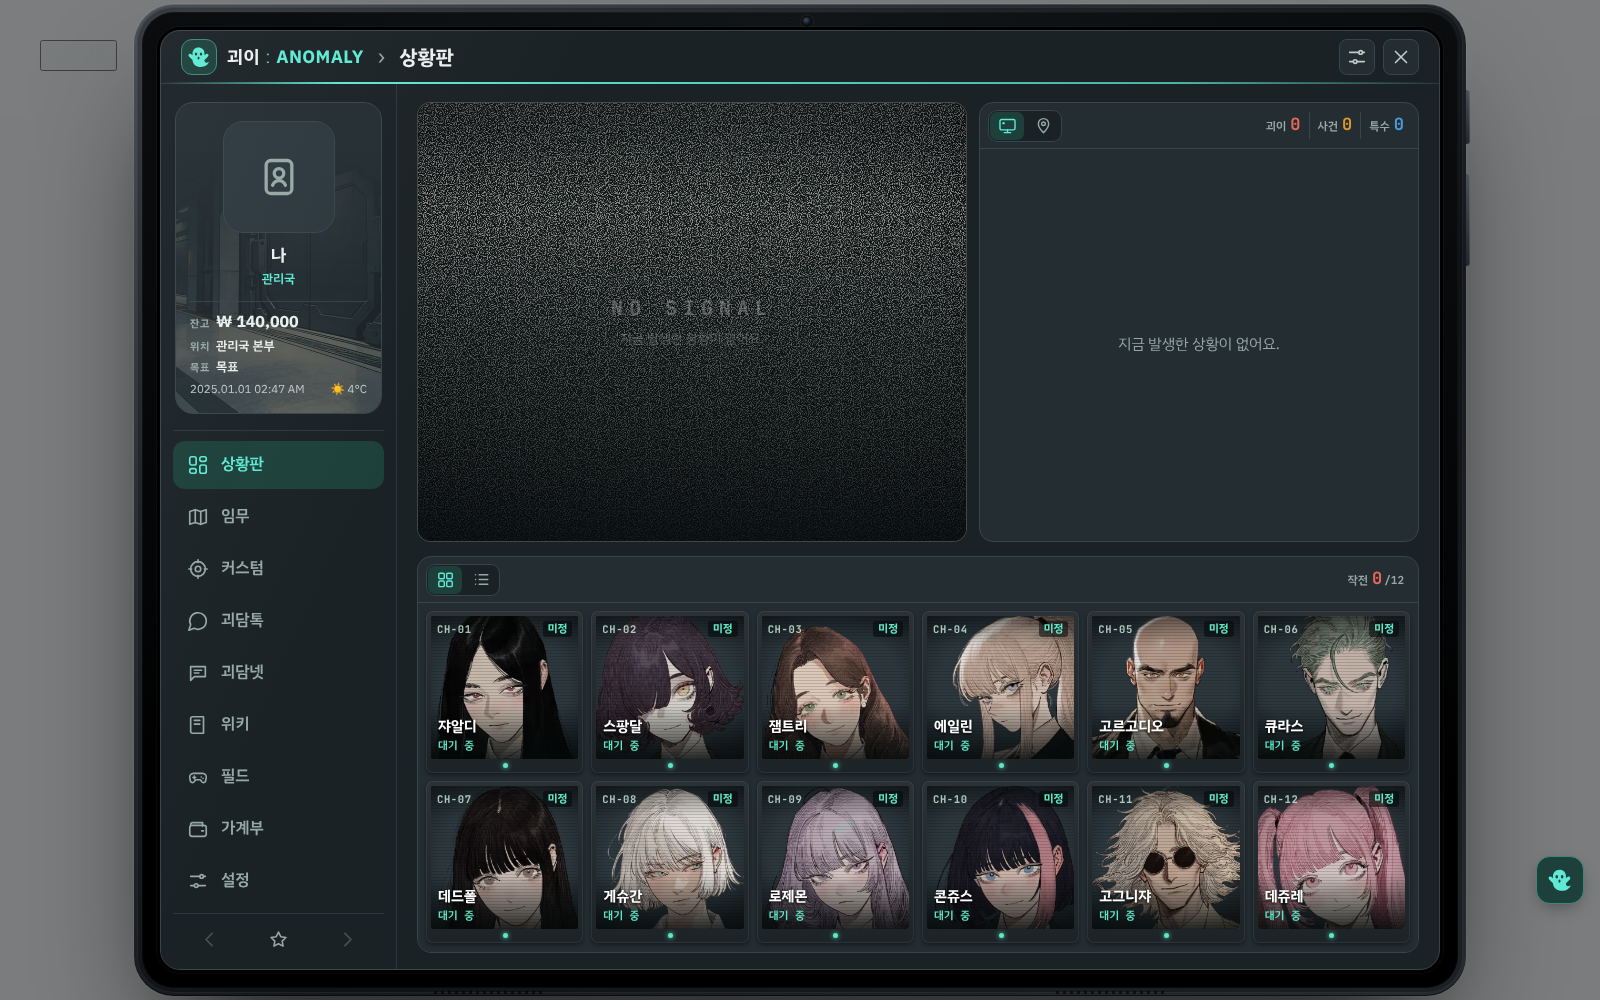
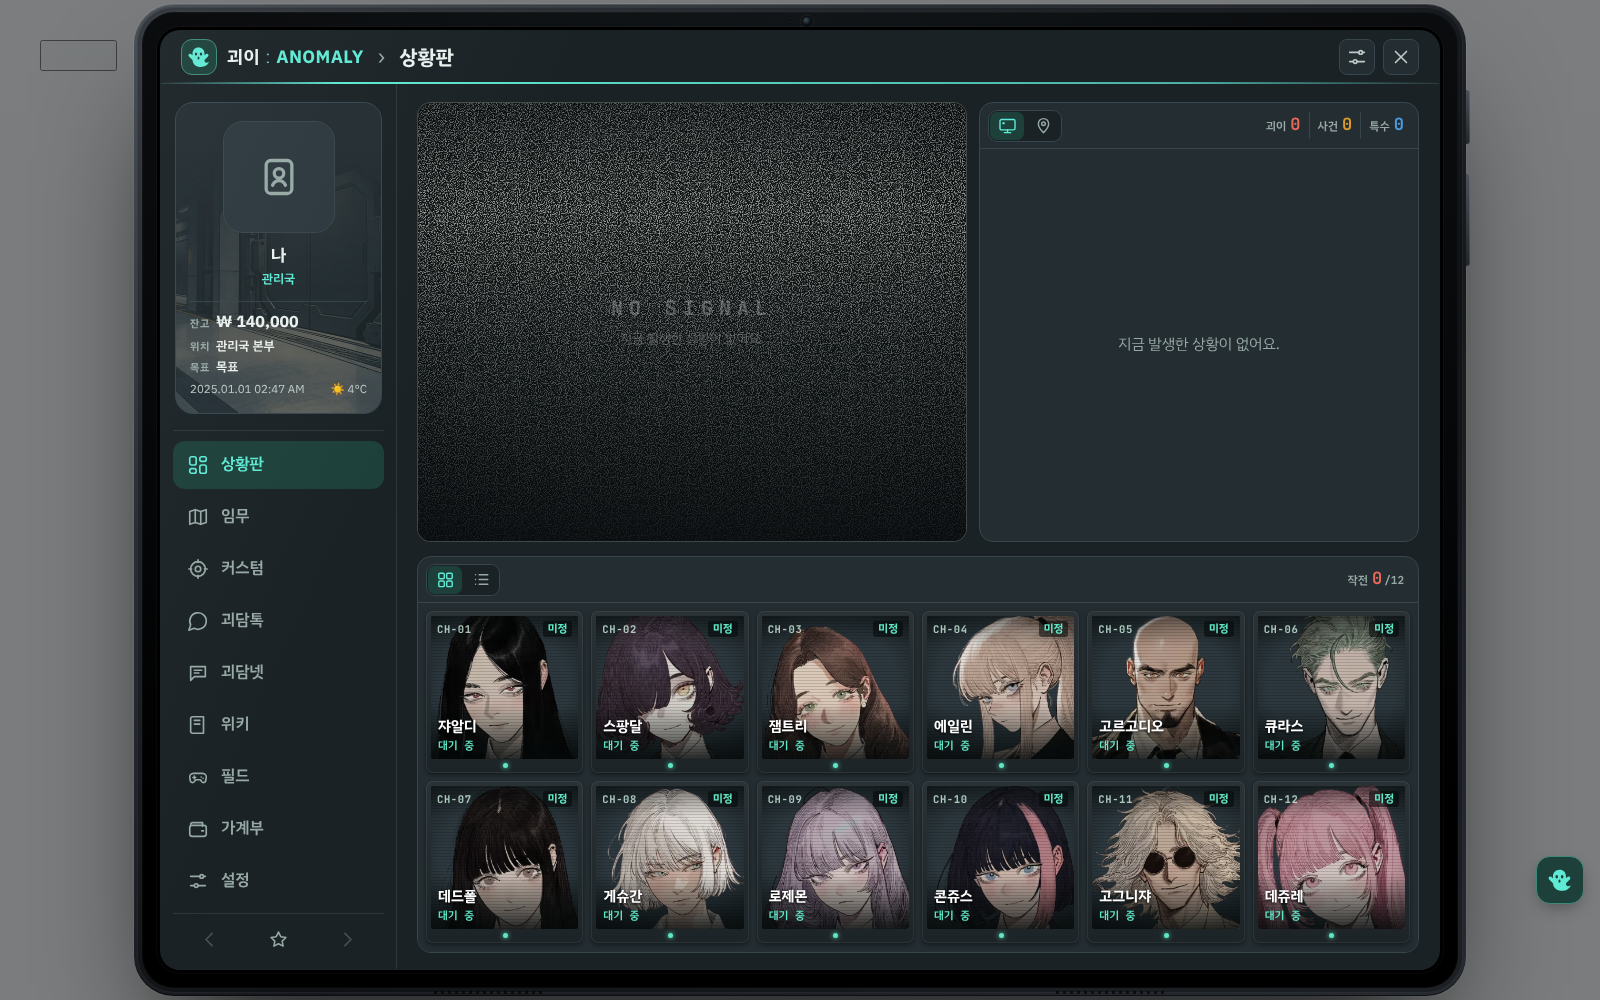
외부 프레임 검토 반영: 틀 안 창 테두리 투명 + 전술 바깥 여백 6px (범퍼 안 잘리게)
- style.css: .gx-frame > .gx-panel 에 border-color: transparent (시안은 검은 3px 띠뿐 — 띠와 창 사이 회색 선 제거)
- style.css·frame.ts: 전술은 .gx 여백 6px (범퍼 바닥 -6px 이 1000px 높이에서 2px 잘리던 것), 숨김 계산 PAD 도 종류별
- 시험 qc-frame: 전술 여백 6px·테두리 투명·범퍼가 화면 안 확인
- 구현 사진 3장 다시 찍음, 인계서 한 줄 갱신

Claude-Session: https://claude.ai/code/session_01Jodrze8Jhrnp8pauH4bqbV

Changed region(s): [[0.25, 0.093, 0.625, 0.496]]

diff --git a/src/ui/style.css b/src/ui/style.css
@@ -86,10 +86,13 @@ button:focus-visible, a:focus-visible, input:focus-visible, textarea:focus-visib
 /* ── 외부 프레임 (설정 → 화면 「외부 프레임」, PC만, ui/frame.ts): 창 둘레의 기기 틀. 창 크기 규칙은 위 그대로, 틀만 창 테두리 바깥으로 ──
    시안 docs/시안/상황판_프레임/Tablet.dc.html(일반 베젤 26) · Tactical.dc.html(전술 베젤 64 + 모서리 범퍼). 기기 색은 테마와 무관하게 고정.
    폰(760px 이하)·필드 전체화면·좁은 창에서는 app.ts 가 .gx-frame 자체를 안 넣는다 (data-frame="none") */
-.gx[data-frame="tablet"], .gx[data-frame="tactical"] { padding: 4px; }
+.gx[data-frame="tablet"] { padding: 4px; }
+/* 전술은 모서리 범퍼 바닥이 본체 밖 6px 까지 나가므로 그만큼 여백을 더 둔다 (1000px 높이에서 범퍼가 잘리지 않게; ui/frame.ts PAD 와 같은 값) */
+.gx[data-frame="tactical"] { padding: 6px; }
 .gx-frame { position: relative; flex: none; display: flex; align-items: center; justify-content: center; box-sizing: border-box; padding: var(--bz); width: min(100%, calc(1280px + 2 * var(--bz))); height: min(100%, calc(950px + 2 * var(--bz))); }
 .gx-frame.pre { width: min(100%, calc(1024px + 2 * var(--bz))); }
-.gx-frame > .gx-panel { position: relative; z-index: 1; border-radius: 20px; }
+/* 창의 1px 테두리는 틀 안에서는 지운다 (시안은 테두리 없이 검은 3px 띠뿐 — 남겨 두면 띠와 창 사이에 회색 선이 생긴다). 투명으로 두면 바탕이 테두리 자리까지 칠해지고 폭(border-box)은 그대로 */
+.gx-frame > .gx-panel { position: relative; z-index: 1; border-radius: 20px; border-color: transparent; }
 .gx-frame > i, .gx-frame > .gxf-screw { position: absolute; font-style: normal; pointer-events: none; }
 /* 유리 반사: 창 위 아주 옅게 */
 .gx-frame > .gxf-glare { inset: var(--bz); z-index: 2; border-radius: 20px; }

diff --git a/src/ui/frame.ts b/src/ui/frame.ts
@@ -10,8 +10,8 @@ export type FrameKind = NonNullable<Prefs['frame']>;
 const EXTRA_W: Record<Exclude<FrameKind, 'none'>, number> = { tablet: 26 * 2 + 4, tactical: 64 * 2 + 6 * 2 };
 /** 틀이 창 위아래로 차지하는 높이(합) */
 const EXTRA_H: Record<Exclude<FrameKind, 'none'>, number> = { tablet: 26 * 2, tactical: 64 * 2 };
-/** 틀을 켰을 때 .gx 바깥 여백 (style.css 와 같은 값) */
-const PAD = 4;
+/** 틀을 켰을 때 .gx 바깥 여백 (style.css 와 같은 값). 전술은 모서리 범퍼 바닥이 본체 밖 6px 까지 나가서 그만큼 더 */
+const PAD: Record<Exclude<FrameKind, 'none'>, number> = { tablet: 4, tactical: 6 };
 /** 창 최대 폭 (style.css .gx-panel · .gx-panel.pre 와 같은 값) */
 const PANEL_W = { nav: 1280, pre: 1024 };
 /** 전술 틀일 때 창이 이보다 낮아지면 틀을 숨긴다 */
@@ -32,8 +32,8 @@ export function frameState(pref: FrameKind | undefined, nav: boolean): FrameStat
   if (matchMedia('(max-width: 760px)').matches || document.fullscreenElement) return { kind: 'none', hidden: false };
   const w = window.innerWidth;
   const h = window.innerHeight;
-  if (w < (nav ? PANEL_W.nav : PANEL_W.pre) + EXTRA_W[want] + PAD * 2) return { kind: 'none', hidden: true };
-  if (want === 'tactical' && h - PAD * 2 - EXTRA_H.tactical < TACTICAL_MIN_H) return { kind: 'none', hidden: true };
+  if (w < (nav ? PANEL_W.nav : PANEL_W.pre) + EXTRA_W[want] + PAD[want] * 2) return { kind: 'none', hidden: true };
+  if (want === 'tactical' && h - PAD.tactical * 2 - EXTRA_H.tactical < TACTICAL_MIN_H) return { kind: 'none', hidden: true };
   return { kind: want, hidden: false };
 }
 

diff --git a/docs/인계서.md b/docs/인계서.md
@@ -1,7 +1,7 @@
 # 인계서 · 새 Claude 계정으로 이어받기 (2026-10-24)
 
 > **2026-10-29 인계 (브랜치 `claude/qc-release-2026-10-28`, 미릴리스 · 이 절이 가장 최신):**
-> - **상황판 창 외부 프레임 (2026-10-29 사용자 결정, 브랜치 `wf/frame`)**: 설정 › 화면 「외부 프레임」 없음/일반 태블릿/전술 태블릿, **기본값 일반 태블릿**, 「이 기기」 범위(`Prefs.frame`, 일반은 저장 안 함). PC 전용 — 폰(760px 이하)·필드 전체화면(`document.fullscreenElement`)에서는 안 그리고, 창 최대 폭(1280·시작 전 1024) + 틀 두께(일반 56·전술 140) + 여백 8이 뷰포트보다 크면(또는 전술인데 창 높이 600 미만) 창은 그대로 두고 틀만 숨기며 설정 줄에 「지금 창 폭이 좁아 프레임을 숨겼어요」(`.gx` `data-frame`·`data-frame-hidden`). 창(.gx-panel) 크기 규칙은 그대로, 틀은 바깥으로만(`src/ui/frame.ts` + `style.css` 「외부 프레임」 절, 시안 `docs/시안/상황판_프레임/Tablet.dc.html`·`Tactical.dc.html` 그대로, 구현 사진 `구현_일반.png`·`구현_전술.png`·`구현_전술_모서리.png`). 시험 `tests/qc-frame-browser.mjs <fixture>`(목록 이름 `qc-frame`). 참고: 전술 시안 HTML 은 창 둘레 64px(결정문의 44px 와 다름) — HTML 치수를 따랐다.
+> - **상황판 창 외부 프레임 (2026-10-29 사용자 결정, 브랜치 `wf/frame`)**: 설정 › 화면 「외부 프레임」 없음/일반 태블릿/전술 태블릿, **기본값 일반 태블릿**, 「이 기기」 범위(`Prefs.frame`, 일반은 저장 안 함). PC 전용 — 폰(760px 이하)·필드 전체화면(`document.fullscreenElement`)에서는 안 그리고, 창 최대 폭(1280·시작 전 1024) + 틀 두께(일반 56·전술 140) + 여백(일반 8·전술 12, 범퍼 돌출분)이 뷰포트보다 크면(또는 전술인데 창 높이 600 미만) 창은 그대로 두고 틀만 숨기며 설정 줄에 「지금 창 폭이 좁아 프레임을 숨겼어요」(`.gx` `data-frame`·`data-frame-hidden`). 창(.gx-panel) 크기 규칙은 그대로, 틀은 바깥으로만(`src/ui/frame.ts` + `style.css` 「외부 프레임」 절, 시안 `docs/시안/상황판_프레임/Tablet.dc.html`·`Tactical.dc.html` 그대로, 구현 사진 `구현_일반.png`·`구현_전술.png`·`구현_전술_모서리.png`). 시험 `tests/qc-frame-browser.mjs <fixture>`(목록 이름 `qc-frame`). 참고: 전술 시안 HTML 은 창 둘레 64px(결정문의 44px 와 다름, HTML 자체 꼬리표도 「BEZEL 64」) — HTML 치수를 따랐다. 틀 안에서는 창의 1px 테두리를 투명으로 둔다(시안은 검은 3px 띠뿐).
 > - **출시 전 전수 QC 끝**: 버그 74건 수정, 단위시험 678 통과·0 건너뜀, 브라우저 시험 26종 통과. 종합 `docs/qc/00_종합.md`, 영역별 `docs/qc/01~08`, 개선 제안 `docs/qc/07_개선제안.md`(가 장 = 출시 전 사용자 확인 6가지). 아카라이브 홍보글 `docs/홍보/아카라이브_홍보글.html`(순수 HTML·인라인 스타일·접기, 사진·영상 자리 비움, 미리보기 `docs/홍보/미리보기/`).
 > - **모바일 필드 조작 구현 끝**(사용자 결정 정본 `docs/모바일조작/모바일_조작_설계.md`, 구현 기록 `docs/모바일조작/구현_2026-10-29.md`, 사진 `docs/모바일조작/shots/`): 폰이면 무조건 가로 전체화면(안드로이드 전체화면+가로 고정, 아이폰은 창 덮기+90도 회전), 창 머리·메뉴·신분증·유령 버튼 숨김, 버튼 고정 8개(약·강·회피·막기·점프·고유(길게 충전)·필살·조사)+아래 가운데 자동전투·메뉴, 대사창 모드(선택·취소), 키패드 모드, 버튼 밖 터치 차단, 자동전투(대련 AI 두뇌, 스틱 만지면 잠깐 직접). **버튼 그림은 코드가 기기 픽셀로 그린다**(`src/game/action/ui/touchArt.ts`: 금속 테두리·유리 안쪽·반사광·그림자, 큰 공격 버튼 장식; 사용자 2026-10-29 「흔한 모바일 액션 게임 버튼처럼」). 아이콘만 PixelLab 시트(`game-src/art/ui/pixellab/mobile/buttons_sheet_v1.png`, 한 번 생성 25회 + 시험 10회 = 35회 사용, `spend.log`)에서 정수 배로 꺼낸다. 시험 `tests/qc-mobile-browser.mjs <fixture>`(세로·가로·아이폰 흉내).
 > - **전투 선입력 3칸**(사용자 2026-10-29 「바꿔야지」): `eileen/core.ts` `P.bufQ`(최대 3). 약·약·약·강을 빨리 눌러도 세 번째 약이 안 사라진다. 회귀 시험은 `tests/qc-combat-browser.mjs` 빠른 연타 절.
